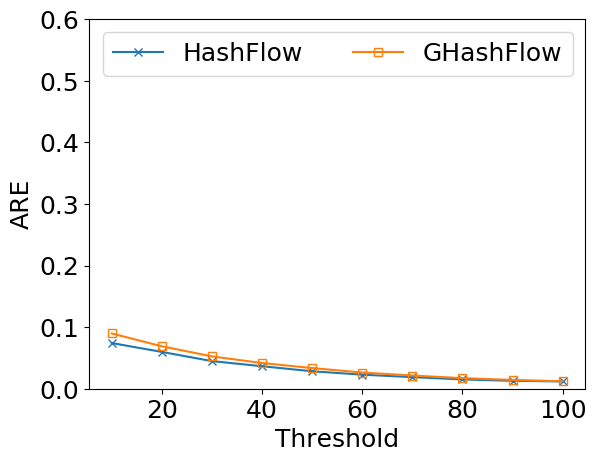
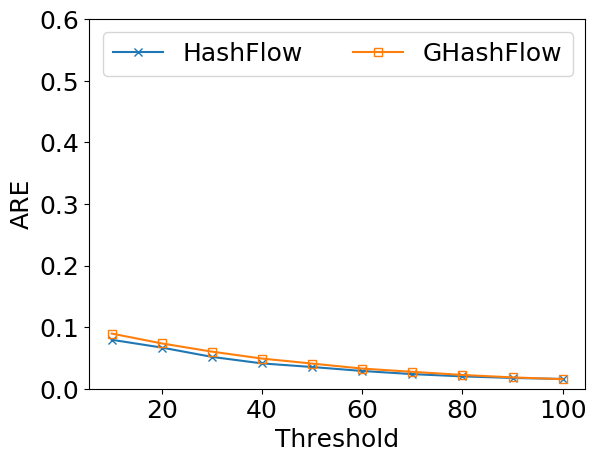
Automatic uploading. No comments!

Changed region(s): [[0.1812, 0.697, 0.9664, 0.8485]]

diff --git a/figures/exp84515/plot.py b/figures/exp84515/plot.py
@@ -7,7 +7,7 @@ import numpy as np
 font = {'size':18}
 matplotlib.rc('font', **font)
 
-n_pkts = 6*(10**6)
+n_pkts = 7*(10**6)
 
 are_30 = []
 are_40 = []
